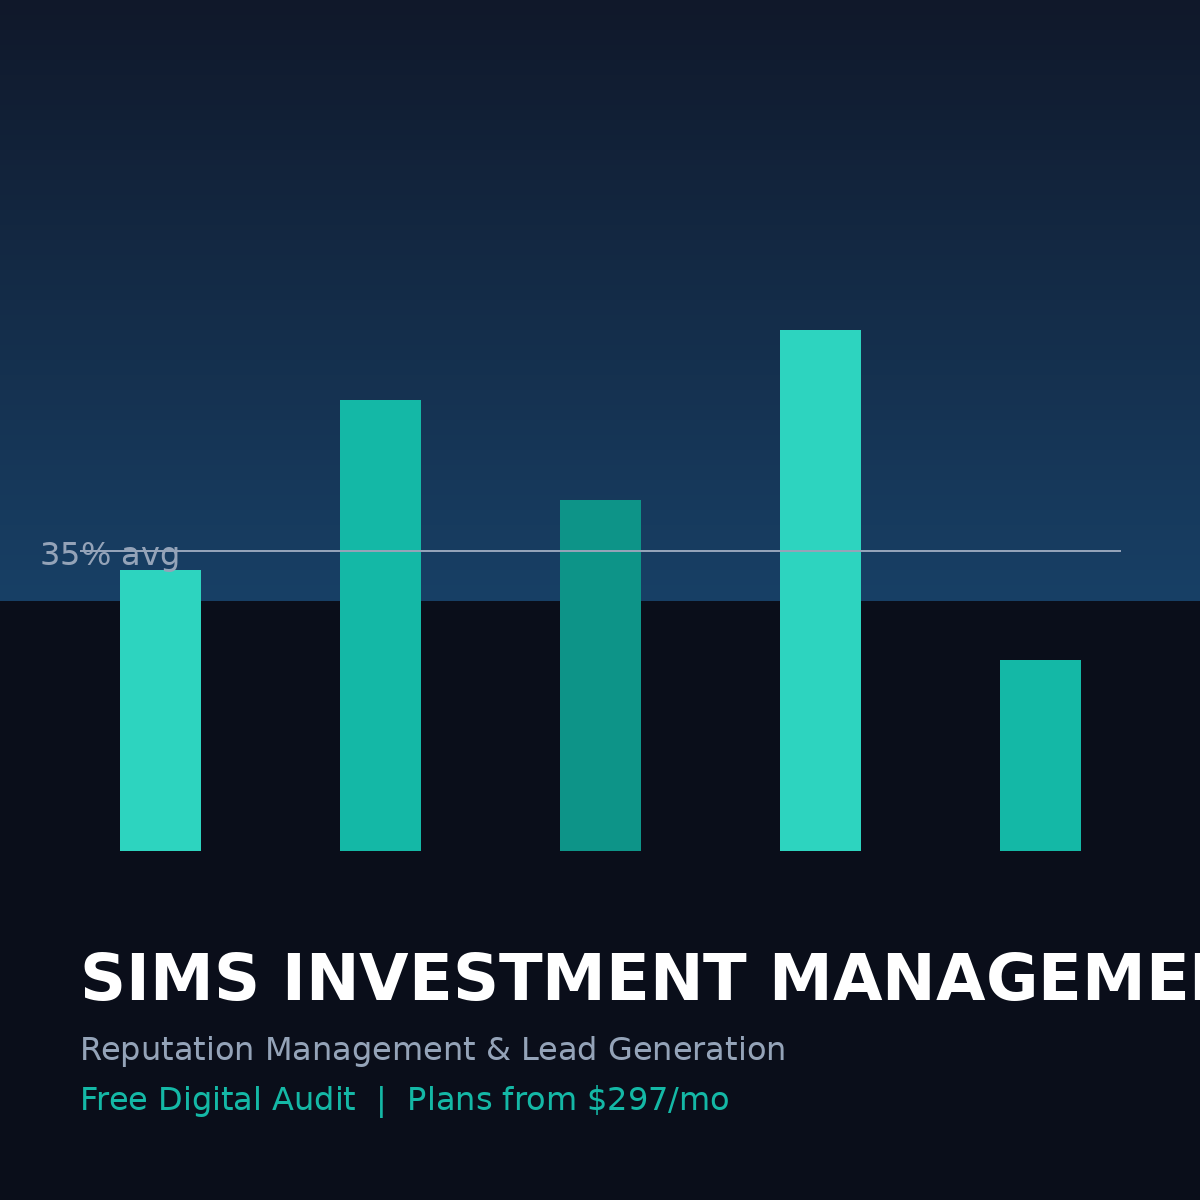
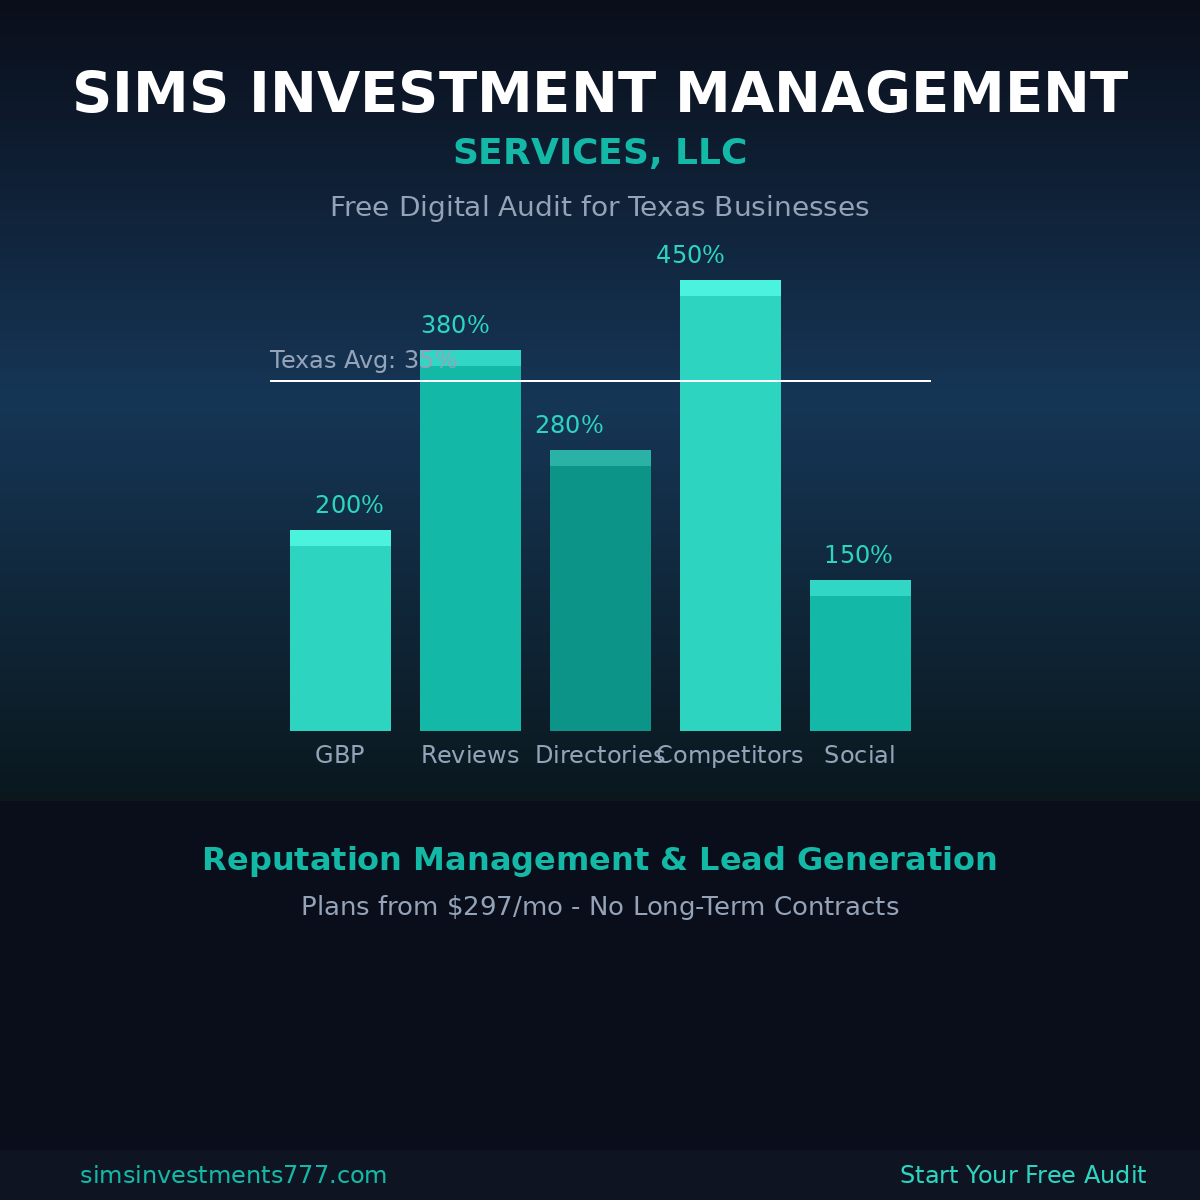
Redesign Google Ads images - larger text, proper layout

diff --git a/scripts/generate_ad_images.py b/scripts/generate_ad_images.py
@@ -1,0 +1,172 @@
+from PIL import Image, ImageDraw, ImageFont
+import os, math
+
+os.makedirs('/home/ubuntu/sims-website/public/ads', exist_ok=True)
+
+FONT_BOLD = '/usr/share/fonts/truetype/dejavu/DejaVuSans-Bold.ttf'
+FONT_REG = '/usr/share/fonts/truetype/dejavu/DejaVuSans.ttf'
+
+TEAL = (20, 184, 166)
+TEAL_LIGHT = (45, 212, 191)
+DARK = (10, 14, 26)
+SLATE = (148, 163, 184)
+WHITE = (255, 255, 255)
+
+# ====== LOGO ======
+img = Image.new('RGBA', (500, 500), DARK + (255,))
+d = ImageDraw.Draw(img)
+for i in range(360):
+    rad = math.radians(i)
+    x = 250 + 230 * math.cos(rad)
+    y = 250 + 230 * math.sin(rad)
+    d.ellipse([x-3, y-3, x+3, y+3], fill=TEAL)
+f = ImageFont.truetype(FONT_BOLD, 200)
+d.text((140, 195), 'S', fill=TEAL, font=f)
+# bars
+f2 = ImageFont.truetype(FONT_REG, 22)
+img.save('/home/ubuntu/sims-website/public/ads/logo.png')
+print('Logo done')
+
+# ====== SQUARE ======
+sq = Image.new('RGB', (1200, 1200), DARK)
+d = ImageDraw.Draw(sq)
+# gradient
+for i in range(400):
+    r = int(10 + i/400 * 12)
+    g = int(14 + i/400 * 40)
+    b = int(26 + i/400 * 60)
+    d.rectangle([0, i, 1200, i+1], (r, g, b))
+for i in range(400, 800):
+    r = int(22 - (i-400)/400 * 12)
+    g = int(54 - (i-400)/400 * 30)
+    b = int(86 - (i-400)/400 * 56)
+    d.rectangle([0, i, 1200, i+1], (r, g, b))
+
+# Title - big and centered
+f_title = ImageFont.truetype(FONT_BOLD, 56)
+title = 'SIMS INVESTMENT MANAGEMENT'
+tw = d.textlength(title, font=f_title)
+d.text(((1200-tw)/2, 60), title, fill=WHITE, font=f_title)
+
+# Subtitle
+f_sub = ImageFont.truetype(FONT_BOLD, 36)
+sub = 'SERVICES, LLC'
+sw = d.textlength(sub, font=f_sub)
+d.text(((1200-sw)/2, 130), sub, fill=TEAL, font=f_sub)
+
+# Tagline
+f_tag = ImageFont.truetype(FONT_REG, 28)
+tag = 'Free Digital Audit for Texas Businesses'
+tw2 = d.textlength(tag, font=f_tag)
+d.text(((1200-tw2)/2, 190), tag, fill=SLATE, font=f_tag)
+
+# Chart area
+chart_top = 280
+chart_h = 450
+bar_w = 100
+gap = 30
+bars = [200, 380, 280, 450, 150]
+labels = ['GBP', 'Reviews', 'Directories', 'Competitors', 'Social']
+colors = [TEAL_LIGHT, TEAL, (13, 148, 136), TEAL_LIGHT, TEAL]
+start_x = (1200 - (len(bars) * (bar_w + gap) - gap)) / 2
+
+f_label = ImageFont.truetype(FONT_REG, 24)
+for i, (h, c, l) in enumerate(zip(bars, colors, labels)):
+    x = int(start_x + i * (bar_w + gap))
+    d.rectangle([x, chart_top + chart_h - h, x + bar_w, chart_top + chart_h], fill=c)
+    # Rounded top
+    d.rectangle([x, chart_top + chart_h - h, x + bar_w, chart_top + chart_h - h + 15], fill=(min(c[0]+30, 255), min(c[1]+30, 255), min(c[2]+30, 255)))
+    # Label
+    lw = d.textlength(l, font=f_label)
+    d.text((x + (bar_w - lw)/2, chart_top + chart_h - h - 40), str(h//10*10)+'%', fill=TEAL_LIGHT, font=f_label)
+    d.text((x + (bar_w - lw)/2, chart_top + chart_h + 10), l, fill=SLATE, font=f_label)
+
+# Avg line
+avg_y = chart_top + chart_h - 350
+d.line([start_x - 20, avg_y, start_x + len(bars)*(bar_w+gap) - gap + 20, avg_y], fill=(255, 255, 255, 60), width=2, joint='curve')
+d.text((start_x - 20, avg_y - 35), 'Texas Avg: 35%', fill='#94a3b8', font=f_label)
+
+# Bottom CTA
+f_cta = ImageFont.truetype(FONT_BOLD, 32)
+cta = 'Reputation Management & Lead Generation'
+cw = d.textlength(cta, font=f_cta)
+d.text(((1200-cw)/2, 840), cta, fill=TEAL, font=f_cta)
+
+f_btm = ImageFont.truetype(FONT_REG, 26)
+line2 = 'Plans from $297/mo - No Long-Term Contracts'
+lw2 = d.textlength(line2, font=f_btm)
+d.text(((1200-lw2)/2, 890), line2, fill=SLATE, font=f_btm)
+
+# Bottom bar
+d.rectangle([0, 1150, 1200, 1200], fill=(15, 20, 35))
+d.text((80, 1160), 'simsinvestments777.com', fill=TEAL, font=f_label)
+d.text((900, 1160), 'Start Your Free Audit', fill=TEAL_LIGHT, font=f_label)
+
+sq.save('/home/ubuntu/sims-website/public/ads/image1-square.png')
+print('Square done')
+
+# ====== LANDSCAPE ======
+ln = Image.new('RGB', (1200, 628), DARK)
+d = ImageDraw.Draw(ln)
+for i in range(250):
+    r = int(10 + i/250 * 12)
+    g = int(14 + i/250 * 40)
+    b = int(26 + i/250 * 60)
+    d.rectangle([0, i, 1200, i+1], (r, g, b))
+
+# Title
+f_title2 = ImageFont.truetype(FONT_BOLD, 48)
+t = 'SIMS INVESTMENT MANAGEMENT'
+tw = d.textlength(t, font=f_title2)
+d.text(((1200-tw)/2, 30), t, fill=WHITE, font=f_title2)
+
+f_sub2 = ImageFont.truetype(FONT_BOLD, 28)
+s = 'SERVICES, LLC - Free Digital Audit for Texas Businesses'
+sw = d.textlength(s, font=f_sub2)
+d.text(((1200-sw)/2, 85), s, fill=TEAL, font=f_sub2)
+
+# Mini chart
+ch = 220
+bars2 = [120, 240, 170, 280, 90]
+labels2 = ['GBP', 'Reviews', 'Dir', 'Comp', 'Soc']
+start_x = 80
+for i, (h, c, l) in enumerate(zip(bars2, colors, labels2)):
+    x = start_x + i * 120
+    d.rectangle([x, 40 + ch - h, x + 80, 40 + ch], fill=c)
+    lw = d.textlength(l, font=f_label)
+    d.text((x + (80-lw)/2, 40 + ch + 5), l, fill=SLATE, font=f_label)
+
+avg_y2 = 40 + ch - 170
+d.line([60, avg_y2, 60 + len(bars2)*120, avg_y2], fill=(255, 255, 255, 60), width=2)
+d.text((60, avg_y2-30), '35% avg', fill='#94a3b8', font=f_label)
+
+# Right side content
+f_r = ImageFont.truetype(FONT_REG, 28)
+lines = [
+    ('We analyze your:', TEAL),
+    ('Google Business Profile', WHITE),
+    ('Online Reviews & Ratings', WHITE),
+    ('Directory Listings', WHITE),
+    ('Competitor Comparison', WHITE),
+]
+for j, (txt, clr) in enumerate(lines):
+    d.text((700, 30 + j*38), txt, fill=clr, font=f_r)
+
+# Bottom CTA
+f_bt = ImageFont.truetype(FONT_REG, 24)
+cta_t = 'Get Your Free Audit Today  |  simsinvestments777.com/free-audit'
+cw = d.textlength(cta_t, font=f_bt)
+d.text(((1200-cw)/2, 500), cta_t, fill=TEAL, font=f_bt)
+
+f_bt2 = ImageFont.truetype(FONT_BOLD, 30)
+cta2 = 'Plans from $297/mo  |  No Contracts'
+cw2 = d.textlength(cta2, font=f_bt2)
+d.text(((1200-cw2)/2, 545), cta2, fill=TEAL_LIGHT, font=f_bt2)
+
+# Bottom bar
+d.rectangle([0, 590, 1200, 628], fill=(15, 20, 35))
+d.text((80, 598), 'Reputation Management & Lead Generation', fill=SLATE, font=f_label)
+
+ln.save('/home/ubuntu/sims-website/public/ads/image2-landscape.png')
+print('Landscape done')
+print('All complete!')
